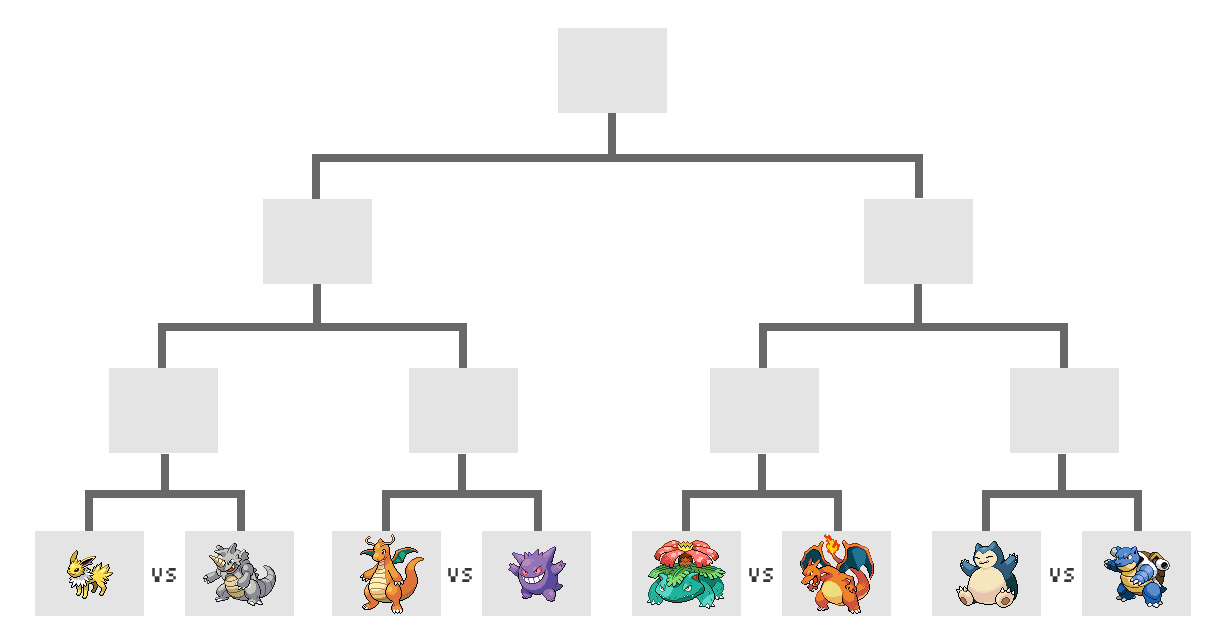
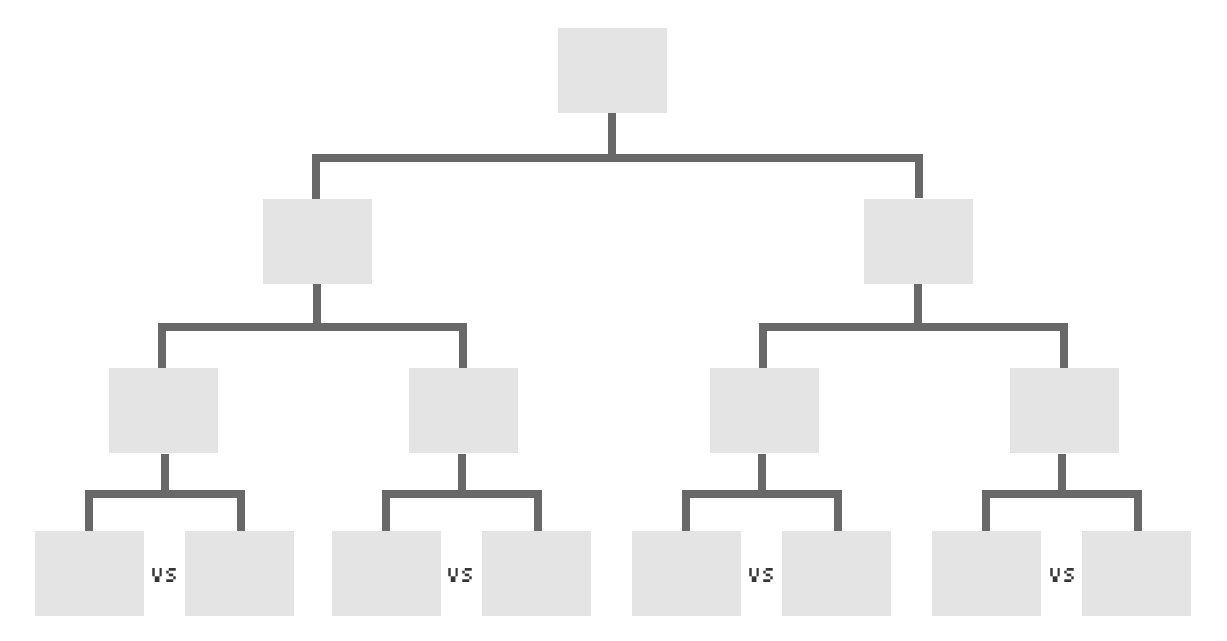
Ajout des images dans la pages de tournois pour le premier niveau

diff --git a/src/view/TournamentView.java b/src/view/TournamentView.java
@@ -3,6 +3,7 @@ package view;
 
 import java.awt.*;
 import javax.swing.*;
+import poketournament.*;
 
 /**
  * TournamentView
@@ -16,25 +17,52 @@ public class TournamentView extends JFrame {
     JButton b1;
     JLabel l1;
     
-    private Dimension[] boxes = new Dimension[15];
+    private Point[] boxes = new Point[15];
     
     public TournamentView() {
+        boxes[0] = new Point(45, 528);
+        boxes[1] = new Point(194, 528);
+        boxes[2] = new Point(343, 528);
+        boxes[3] = new Point(492, 528);
+        boxes[4] = new Point(641, 528);
+        boxes[5] = new Point(790, 528);
+        boxes[6] = new Point(939, 528);
+        boxes[7] = new Point(1093, 528);
+        boxes[8] = new Point(120, 365);
+        boxes[9] = new Point(418, 365);
+        boxes[10] = new Point(720, 365);
+        boxes[11] = new Point(1020, 365);
+        boxes[12] = new Point(272, 195);
+        boxes[13] = new Point(872, 195);
+        boxes[14] = new Point(568, 25);  
+        //JPanel mainPanel = new JPanel();
+        
        this.setDefaultCloseOperation(EXIT_ON_CLOSE);    
        setContentPane(new JLabel(new ImageIcon(getClass().getResource("/ressources/tournament.jpg"))));
        setLayout(null);
+       setTitle("Etat du tournois");
        setSize(1227, 641);
        setResizable(false);
        setVisible(true);
+       //this.add(mainPanel);
        
-       this.add(new JPanel(){
-           {
-               setBackground(Color.red);
-               setSize(90, 70);
-               setLocation(45, 525);
-           }
-       
-       });
-               
+       int i = 0;
+       for(final Point p : boxes){
+           
+           final Pokemon pokemon = Pokemon.pokemons.get(i);
+           this.add(new JPanel(){
+                {
+                    setSize(90, 70);
+                    setLocation(p);
+                    setOpaque(false);
+                    ImageIcon image = new ImageIcon(new ImageIcon(getClass().getResource(
+                            "/ressources/" + pokemon.getName() + ".png")).
+                            getImage().getScaledInstance(70, 70, Image.SCALE_SMOOTH));
+                    this.add(new JLabel(image));
+                }
+            });
+        i++; 
+       }
                
     }
    

diff --git a/src/poketournament/PokeTournament.java b/src/poketournament/PokeTournament.java
@@ -4,6 +4,7 @@
  */
 package poketournament;
 
+import java.util.Collections;
 import view.ChooseView;
 import view.TournamentView;
 
@@ -21,8 +22,15 @@ public class PokeTournament {
         new Pokemon("Florizarre",187,134,135,132); 
         new Pokemon("Tortank",186,135,152,130);
         new Pokemon("Dracaufeu",185,136,130,120);
+        new Pokemon("Ectoplasma",167,117,112,162); 
+        new Pokemon("Rhinoferoce",212,182,172,92);
+        new Pokemon("Voltali",172,117,112,182);
+        new Pokemon("Ronflex",267,162,117,82);
+        new Pokemon("Dracolosse",198,186,147,132);
+        
         
         new ChooseView();
+        Collections.shuffle(Pokemon.pokemons);
         
     }
 }

diff --git a/src/view/ChooseView.java b/src/view/ChooseView.java
@@ -53,6 +53,7 @@ public class ChooseView extends JFrame {
             JPanel panelChoose = new JPanel();
             panelChoose.setPreferredSize(new Dimension(300,150));
             panelChoose.setLayout(new GridLayout(1,2));
+            System.out.println(pokemon.getName());
             panelChoose.add(new JLabel(new ImageIcon(getClass().getResource(
                             PATH + pokemon.getName() + ".png"))));
             panelChoose.add(pokemonData);            
